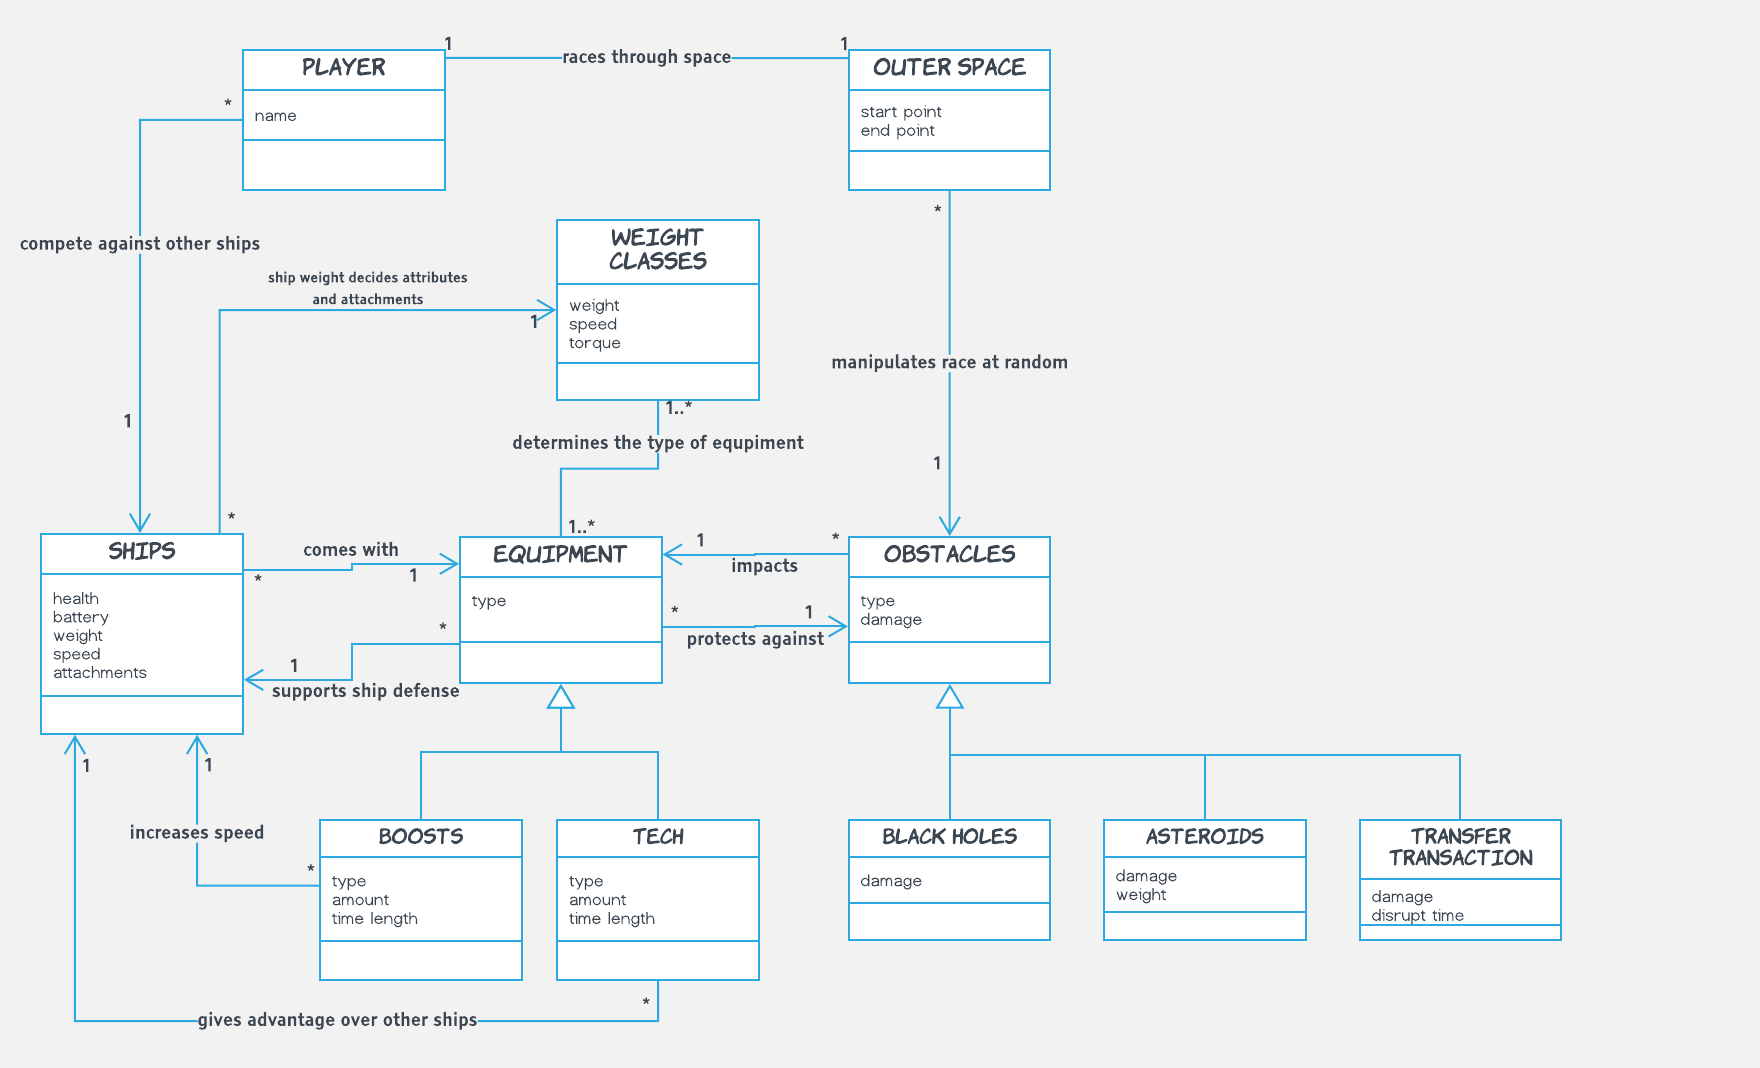
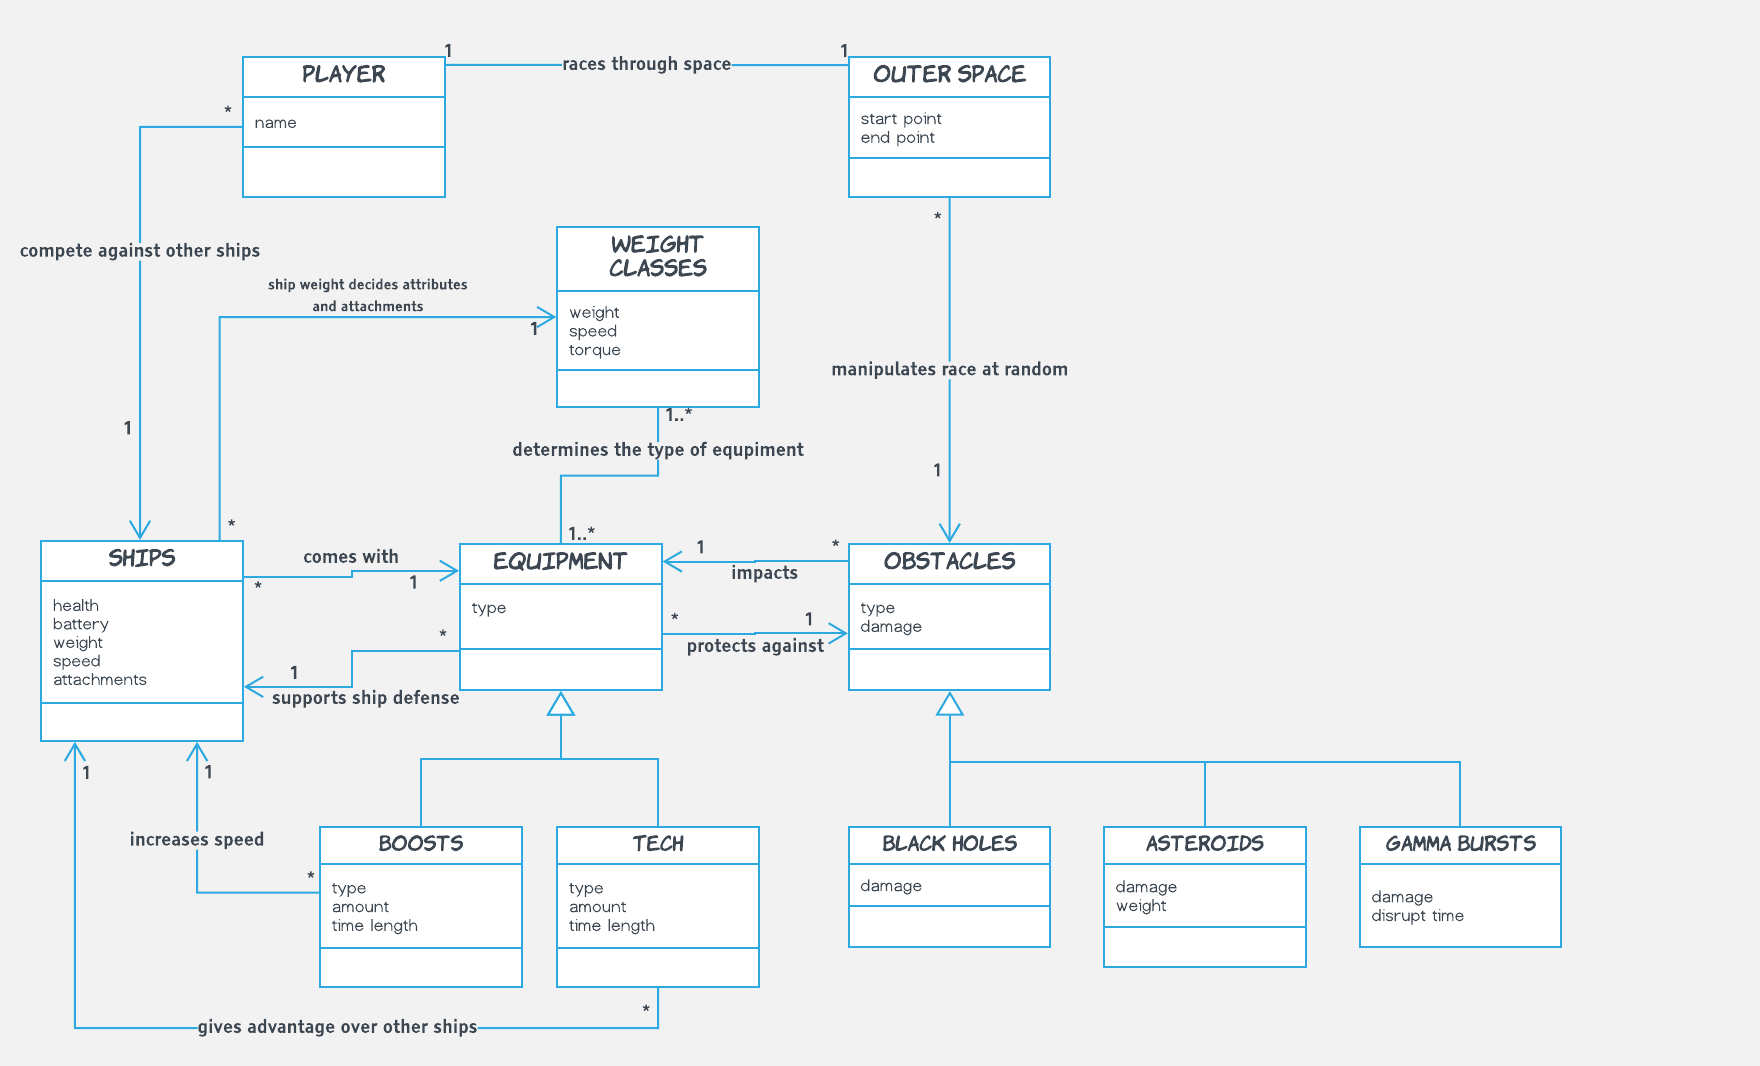
updated domain analysis

diff --git a/doc/DesignDoc.md b/doc/DesignDoc.md
@@ -1,4 +1,4 @@
-# PROJECT Design Documentation
+# PROJECT Design Documentation
 > The following template provides the headings for your Design Documentation.  As you edit each section make sure you remove these commentary 'blockquotes'; the lines that start with a > character.
 
 # Team Information
@@ -34,7 +34,7 @@ User goal: Users can play the game that offers players the best of both racing a
 |------|------------|
 | Rapier	 | Small and light category spaceship |
 | Eviscerator		| Medium category spaceship |
-| Goliath | Heavy category space|
+| Goliath | Heavy category spaceship|
 
 
 ## Requirements
@@ -78,9 +78,31 @@ This section describes the main features of the game.
 This section describes the application domain.
 
 ![Domain Model](domainanalysis.png)
-> Replace the placeholder image above with your team's own domain model. 
 
-> Provide a high-level overview of the domain. You can discuss the more important domain entities and their relationship to each other.
+* Player
+  > Races through space against other players or AI
+  > Compete utilizing space ships
+* Outer Space
+  > Has a starting point and end point that are manipulated through obstacles
+* Ships
+  > Has weight that decides the appropriate attributes and equipment to go with it
+* Weight Classes
+  > Determines the different type of equipment that is attached to the ship
+  > Has a certain speed and torque for movement
+* Equipment
+  * Boosts
+    > Increases speed of the ship for a specified amount of time
+  * Tech
+    > Gives advantage over other ships for a specified amount of time
+* Obstacles
+  * Black Holes
+    > Damage ships to the point that they are completely destroyed
+  * Asteroids
+    > Damage ships not at significantly as black holes
+    > Throw ships off balance
+  * Gamma Bursts
+    > Damage ships at the least amount
+    > Disrupt functionality in the ship for a specific amount of time
 
 ### Core Design:
 
